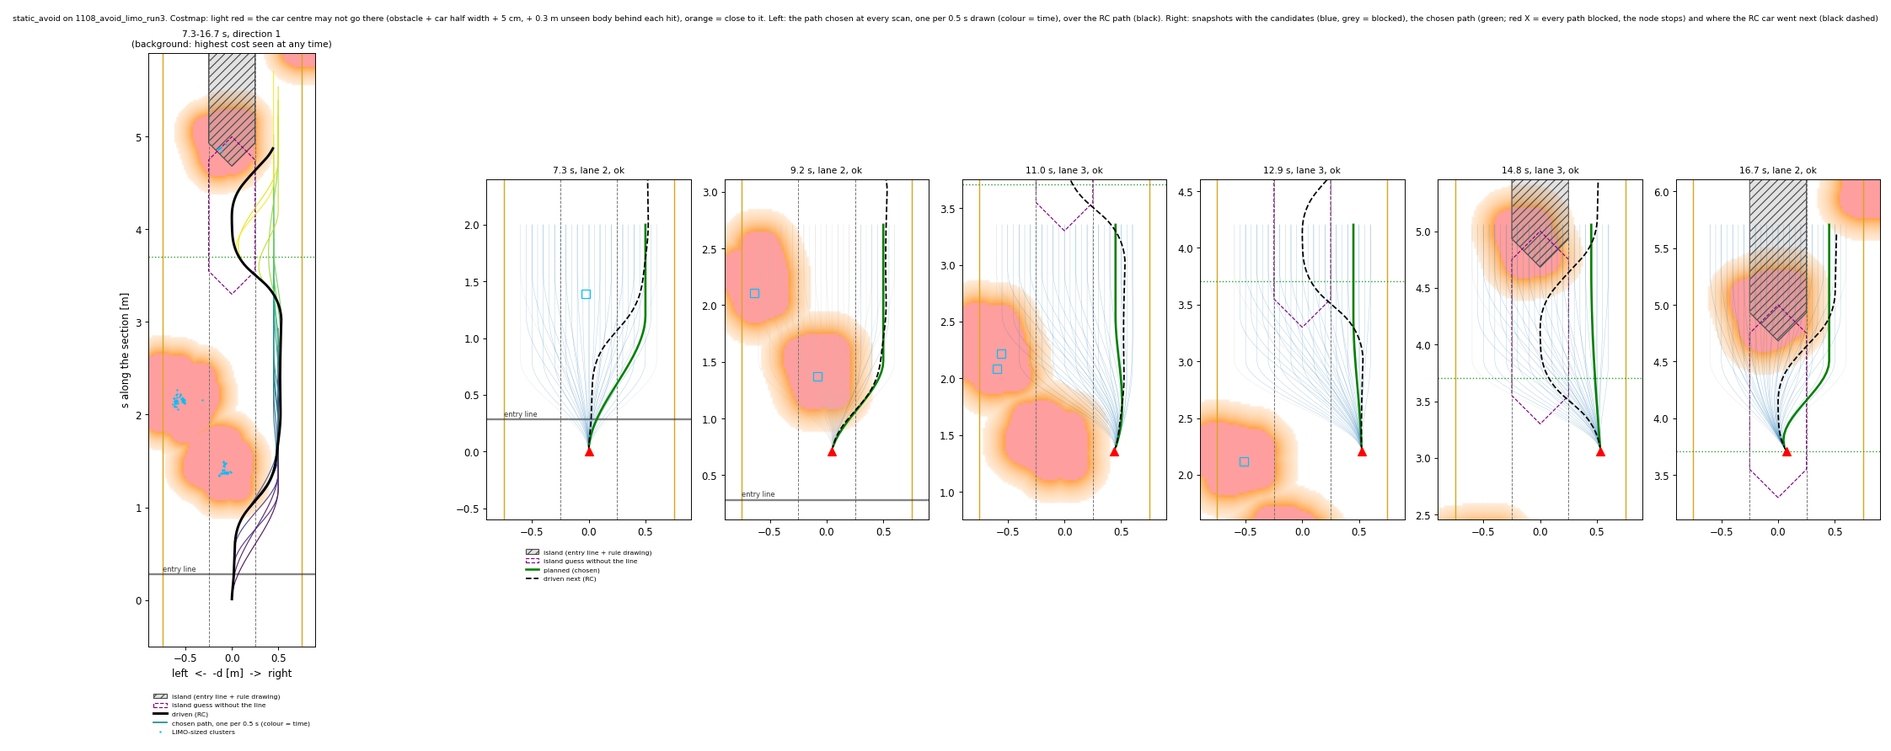
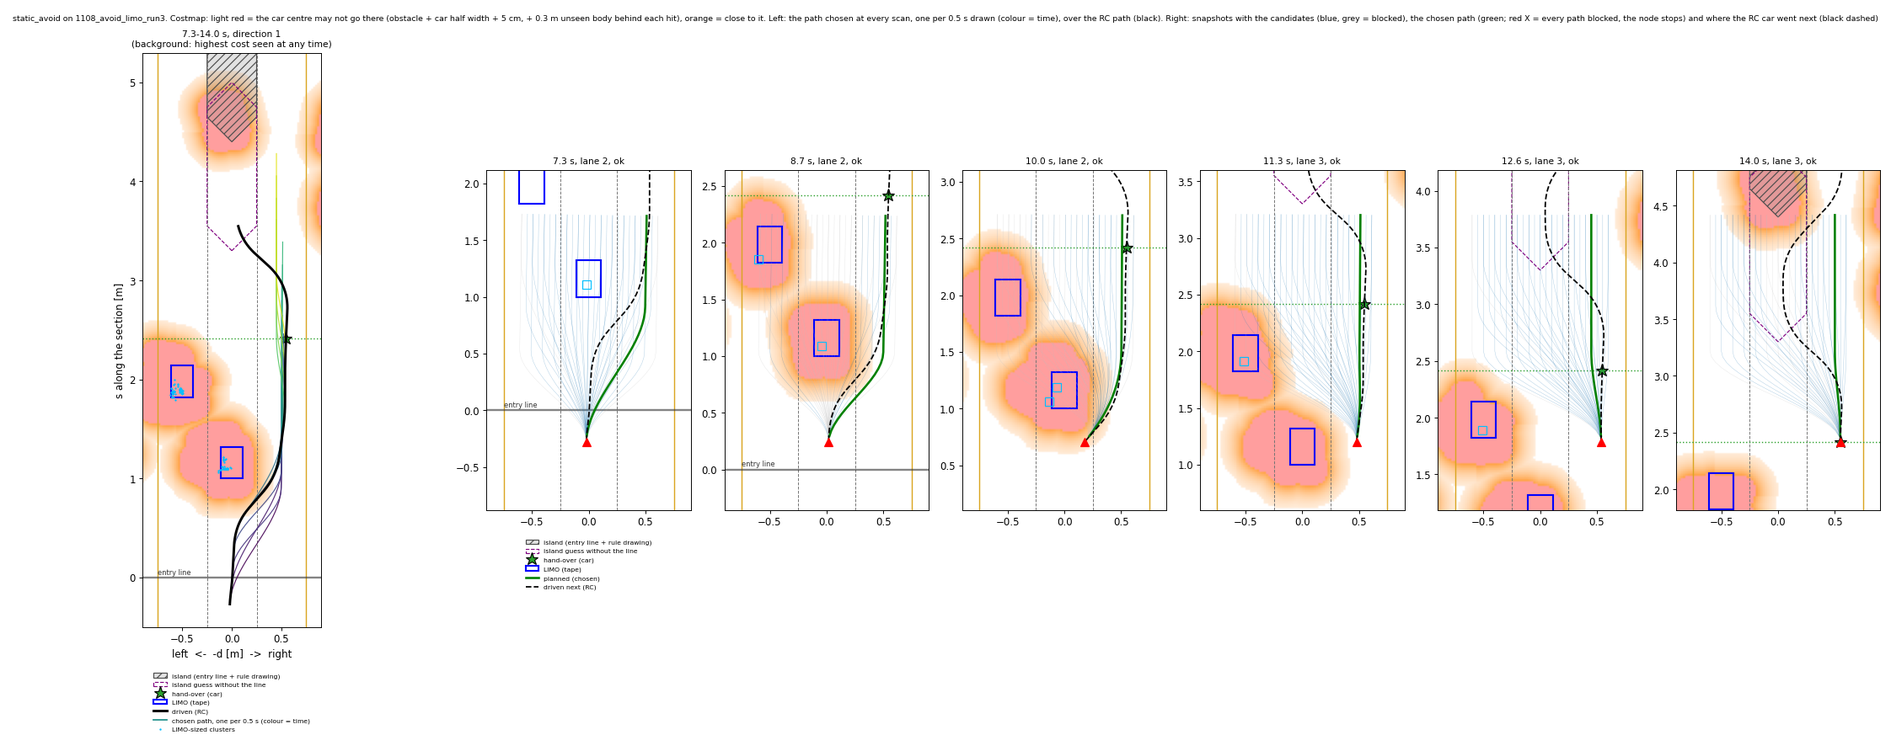
Replay static avoid in lane coordinates, with tape positions; 1108 analysis and v3.2 plan

diff --git a/tools/static_avoid/replay_bag.py b/tools/static_avoid/replay_bag.py
@@ -22,9 +22,9 @@ sys.path.insert(0, os.path.join(HERE, '..', '..', 'ros2_ws', 'src', 'clothoid_li
 from clothoid_lidar.cone_sorter import ConeMission, ConeSorter, SorterParams  # noqa: E402
 from clothoid_lidar.obstacle_extractor import (ExtractorParams, extract_obstacles,  # noqa: E402
                                                transform_points)
-from clothoid_lidar.section_cues import (CameraModel, EntryLineTracker, WhiteParams,  # noqa: E402
-                                         find_entry_line)
-from clothoid_lidar.static_avoid import (ACTIVE, LETHAL, AvoidParams, Inhibit,  # noqa: E402
+from clothoid_lidar.section_cues import (CameraModel, ColourParams, EntryLineTracker,  # noqa: E402
+                                         WhiteParams, find_entry_line)
+from clothoid_lidar.static_avoid import (ACTIVE, LETHAL, AvoidParams, Inhibit, LaneFitter,  # noqa: E402
                                          PoseTracker, StaticAvoid, base_to_section, lane_of,
                                          yaw_from_quaternion)
 
@@ -64,6 +64,7 @@ def replay(bag, t_from, t_to, direction, ignore_cone, lane_width, cam=None):
     p = AvoidParams(lane_width=lane_width)
     avoid = StaticAvoid(p)
     tracker = PoseTracker()
+    fitter = LaneFitter(p, cam, ColourParams())
     cone = ConeMission(ConeSorter(SorterParams()))
     rec = dict(events=[], plans=[], trail=[], limos=[], cost_max=None, p=p, avoid=avoid,
                crossings=[])
@@ -81,9 +82,14 @@ def replay(bag, t_from, t_to, direction, ignore_cone, lane_width, cam=None):
             frames += 1
             if (frames - 1) % 3 or not tracker.ready or not (t_from - 8.0 <= s <= t_to):
                 continue
-            c = entry.update(s, tracker.distance, find_entry_line(image_bgr(msg), cam, white))
+            bgr = image_bgr(msg)
+            c = entry.update(s, tracker.distance, find_entry_line(bgr, cam, white))
             if c is not None:
                 rec['crossings'].append((s, c))
+            had = avoid.lane_frame
+            fitter.on_frame(bgr, avoid, tracker, entry)
+            if avoid.lane_frame is not None and had is None:
+                rec['events'].append((s, avoid.event))
             continue
         if topic == '/odom':
             tracker.odom(s, msg.twist.twist.linear.x)
@@ -94,8 +100,8 @@ def replay(bag, t_from, t_to, direction, ignore_cone, lane_width, cam=None):
                     if avoid.island_source == 'entry line':
                         rec['events'].append((s, 'entry line crossed after the start'))
             if avoid.frame is not None and tracker.ready:
-                sec = avoid.section_pose(tracker.latest())
-                rec['trail'].append((s, sec[0], sec[1], avoid.state == ACTIVE))
+                rec['trail'].append((s, *avoid.section_pose(tracker.latest())[:2],
+                                     avoid.state == ACTIVE))
             continue
         if s < t_from or s > t_to or not tracker.ready:
             continue
@@ -120,17 +126,20 @@ def replay(bag, t_from, t_to, direction, ignore_cone, lane_width, cam=None):
         free = np.column_stack((np.cos(ang[~ok]), np.sin(ang[~ok])))
         avoid.on_scan(hits, np.array([LIDAR_X, 0.0]), pose, tracker.latest(), direction,
                       keep_candidates=True, free_dirs_base=free)
-        sec = avoid.section_pose(tracker.latest())
+        sec = avoid.lane_pose(tracker.latest())
         if len(limos):
             rec['limos'].extend(base_to_section(limos, avoid.section_pose(pose)).tolist())
         cm = avoid.costmap.cost
         rec['cost_max'] = cm.copy() if rec['cost_max'] is None or rec['cost_max'].shape != cm.shape \
             else np.maximum(rec['cost_max'], cm)
         rec['plans'].append(dict(t=s, pose=sec, plan=avoid.plan, cost=cm.copy(),
-                                 dmax=avoid.costmap.d_max, lane=avoid.lane(tracker.latest()),
-                                 limos=base_to_section(limos, sec) if len(limos) else limos))
+                                 lane_rel=avoid.lane_in_costmap(),
+                                 lane=avoid.lane(tracker.latest()),
+                                 limos=base_to_section(limos, avoid.section_pose(pose))
+                                 if len(limos) else limos))
         if avoid.control(tracker.latest(), inh) is None:
             rec['events'].append((s, 'END ' + avoid.event))
+            sec = avoid.lane_pose(tracker.latest())
             rec['handover'] = dict(t=s, s=sec[0], d=sec[1], island=avoid.island,
                                    source=avoid.island_source)
             on_total += s - on_since
@@ -140,7 +149,53 @@ def replay(bag, t_from, t_to, direction, ignore_cone, lane_width, cam=None):
     rec['on_total'] = on_total
     rec['island'], rec['island_source'], rec['entry_s'] = (avoid.island, avoid.island_source,
                                                            avoid.entry_s)
+    to_final_lane(rec, avoid)
     return rec
+
+
+def to_final_lane(rec, avoid):
+    """Everything in the final lane coordinates, costmaps resampled onto them: a plan made before
+    the lane fit is drawn where it really was on the road."""
+    p, final = rec['p'], avoid.lane_in_costmap()
+    rec['lane_turn'] = None if final is None else math.degrees(final.yaw0)
+
+    def sec2lane(q):
+        return q if final is None or not len(q) else final.points_to(q)
+
+    def lane2final(q, rel):
+        return sec2lane(q if rel is None else rel.points_from(q))
+    dmax = 1.5 * p.lane_width + 0.15
+    ns = int(round((p.grid_s_max - p.grid_s_min) / p.resolution))
+    nd = int(round(2 * dmax / p.resolution))
+    ss, dd = np.meshgrid(p.grid_s_min + (np.arange(ns) + 0.5) * p.resolution,
+                         -dmax + (np.arange(nd) + 0.5) * p.resolution, indexing='ij')
+    grid = np.column_stack((ss.ravel(), dd.ravel()))
+    if final is not None:
+        grid = final.points_from(grid)
+    full = avoid.costmap
+
+    def resample(cost):
+        keep, full.cost = full.cost, cost
+        out = full.lookup(grid).reshape(ns, nd)
+        full.cost = keep
+        return out
+    if rec['cost_max'] is not None:
+        rec['cost_max'] = resample(rec['cost_max'])
+    for pl in rec['plans']:
+        rel = pl['lane_rel']
+        pl['dmax'], pl['cost'] = dmax, resample(pl['cost'])
+        s, d, psi = pl['pose']
+        q = lane2final(np.array([[s, d]]), rel)[0]
+        pl['pose'] = (float(q[0]), float(q[1]), psi)
+        pl['plan'].path = lane2final(pl['plan'].path, rel)
+        pl['plan'].candidates = [(lane2final(c, rel), v) for c, v in pl['plan'].candidates]
+        if len(pl['limos']):
+            pl['limos'] = sec2lane(pl['limos'])
+    if rec['limos']:
+        rec['limos'] = sec2lane(np.array(rec['limos'])).tolist()
+    if rec['trail']:
+        tr = sec2lane(np.array([(s, d) for _, s, d, _ in rec['trail']]))
+        rec['trail'] = [(a[0], float(q[0]), float(q[1]), a[3]) for a, q in zip(rec['trail'], tr)]
 
 
 def compare(rec, ahead):
@@ -173,6 +228,8 @@ def main():
                     help='do not stop on the cone-course flag (the 11-05 obstacles were cones)')
     ap.add_argument('--lane-width', type=float, default=0.50)
     ap.add_argument('--plot', default=None)
+    ap.add_argument('--truth', default='', help='tape-measured objects to draw, lane:distance from '
+                    'the entry line to the rear [m], c prefix = cone, e.g. 2:3.00,3:2.50,c1:1.80')
     ap.add_argument('--snaps', type=int, default=6)
     a = ap.parse_args()
 
@@ -198,6 +255,8 @@ def main():
         h = rec['handover']
         print(f'  hand-over at s {h["s"]:.2f} m, {h["island"][0] - h["s"]:.2f} m before the island '
               f'({h["source"]}), lane {lane_of(h["d"], rec["p"])}')
+    print('  lane fit: ' + ('none' if rec['lane_turn'] is None else f'{rec["lane_turn"]:+.1f} deg '
+                            'against the section frame'))
     print(f'  active {rec["on_total"]:.1f} s, {len(rec["plans"])} plans, '
           f'{sum(not x["plan"].feasible for x in rec["plans"])} blocked')
     for ahead in (0.5, 1.0):
@@ -205,6 +264,7 @@ def main():
         if len(e):
             print(f'  planned vs driven, {ahead:.1f} m ahead: median {100 * np.median(e):.0f} cm, '
                   f'p90 {100 * np.percentile(e, 90):.0f} cm (n {len(e)})')
+    rec['truth'] = [x.split(':') for x in a.truth.split(',') if x]
     if a.plot and rec['plans']:
         plot(a.plot, rec, a.bag, direction, a.snaps)
 
@@ -232,7 +292,21 @@ def draw_island(ax, rec, p):
     ax.add_patch(Polygon(hexagon(p.island_s_min, p.island_s_max), closed=True, fill=False,
                          ec='purple', ls='--', lw=1.0, label='island guess without the line'))
     if rec.get('handover'):
-        ax.axhline(rec['handover']['s'], color='tab:green', lw=1.2, ls=':')
+        h = rec['handover']
+        ax.axhline(h['s'], color='tab:green', lw=1.2, ls=':')
+        ax.plot(-h['d'], h['s'], '*', color='tab:green', ms=13, mec='k', label='hand-over (car)')
+    if rec['entry_s'] is not None:
+        from matplotlib.patches import Circle, Rectangle
+        for k, (lane, dist) in enumerate(rec.get('truth', [])):
+            cone = lane.startswith('c')
+            d, s0 = p.lane_width * (2 - int(lane[-1])), rec['entry_s'] + float(dist)
+            if cone:
+                first = k == 0 or not rec['truth'][k - 1][0].startswith('c')
+                ax.add_patch(Circle((-d, s0 + 0.04), 0.04, fill=False, ec='blue', lw=1.8,
+                                    label='cone (tape)' if first else None))
+            else:
+                ax.add_patch(Rectangle((-d - 0.11, s0), 0.22, 0.32, fill=False, ec='blue', lw=1.8,
+                                       label='LIMO (tape)' if k == 0 else None))
 
 
 def cost_rgba(cost):

diff --git a/docs/STATIC_AVOID_V3_2_PLAN.md b/docs/STATIC_AVOID_V3_2_PLAN.md
@@ -1,0 +1,154 @@
+# 회피 v3.2 계획 (2026-11-08, 구현은 다음 날)
+
+작성 2026-11-08, 주영. 현재 코드는 `STATIC_AVOID.md`(v3.1)이고, 이 문서는 다음 단계 계획이다. 아래 "1108 분석"과 "이미 고친 것"은 오늘 작업 결과다(코드는 커밋 `dc1bcee`).
+
+## 1108 bag 분석 (7호차, 실제 LIMO 2대, RC 수동, `/home/a/autorace_bags/1108/1108_avoid_limo_run1~11`)
+
+| run | LIMO (입구 선부터 뒷면, cm) | 표지판 | 사람 경로 |
+|---|---|---|---|
+| 1 | 2차선 100, 3차선 182 | 좌 | 2-1-2-1 |
+| 2 | 2차선 100, 3차선 182 | 우 | 2-1-2-3 |
+| 3 | 2차선 100, 1차선 182 | 우 | 2-3-2-3 |
+| 4 | 1차선 180, 3차선 180 | 우 | 2-3 |
+| 5 | 1차선 300, 3차선 250 | 좌 | 2-1 |
+| 6 | 2차선 300, 3차선 250 | 좌 | 2-1-2-1(섬 밟을 뻔) |
+| 7 | 2차선 300, 3차선 250 | 좌 | 2-1 |
+| 8 | 2차선 300, 3차선 250 | 우 | 2-1-2-3 |
+| 9 | 2차선 300, 3차선 250 | 우 | 1·2차선 막혔다고 가정, 2-3-2-1-2-3 |
+| 10 | 2차선 300, 3차선 250 + 콘 1차선 180, 2차선 100 | 좌 | 2-3-2-1-2-1(섬·표지판 박을 뻔) |
+| 11 | 2차선 300, 1차선 250 + 콘 1차선 180, 2차선 100 | 좌 | 2-3-2-1 |
+
+모든 LIMO는 차로 중앙, 차로 방향. 위치는 입구 정지선에서 LIMO 뒷면까지 수직 거리.
+
+- **측정 정확도:** 입구 선 + odom + 라이다로 계산한 LIMO 위치를 줄자와 대조했다(22/22). 뒷면 오차 중앙값 −6 cm(10~90%: −11 ~ +1 cm), 옆 오차 크기 중앙값 6 cm, 90% 20 cm.
+- **LIMO가 라이다에 보이는 모양:** 실제 LIMO 뒷면은 두 조각(폭 12 cm 7빔 + 6 cm 4빔, 사이에 반사 없는 빔)으로 잡힌다. 그래도 회피 시작은 모두 첫 LIMO 약 1.35 m 앞에서 정상이었다.
+- **입구 선:** 코너 직후라 카메라에 +6~31° 기울어 보인다. 이 기울기는 차의 헤딩이 아니다(헤딩 보정을 넣으면 줄자 대조가 10/22로 나빠지고, 넣지 않으면 22/22). 그 1.7 m 앞 횡단보도 정지선은 0° 근처, 그 밖의 흰 표시는 43~60° 또는 음수였다.
+
+## 오늘 이미 고친 것 (`dc1bcee`)
+1. **경로 금지 판정:** 최대 조향으로도 못 피하는 거리(0.59 m = √(2Ry−y²) + 0.15, R 0.48, y 0.30) 안의 치명 칸만 금지한다. 그 너머는 큰 비용이다.
+2. **후보 경로:** 차의 지금 헤딩에서 출발한다(3차 곡선). 노란 선은 차 모서리 기준으로 보고, 이미 넘어 있으면 최대 조향으로 돌아 나오는 만큼(R(1−cos ψ))을 허용한다. 바깥 차로 중심 너머로 가는 경로에는 비용을 준다(넘침 방지).
+3. **그림:** 모든 후보가 막힌 순간에는 경로 대신 빨간 X를 그린다(전에는 아무 후보나 그려져서 빨간 구역을 가로지르는 선으로 보였음).
+4. **섬 표지판 받침:** 입구 선을 지난 뒤 섬 앞끝 근처(입구 + 4.15 m 이후)의 2차선 물체로는 회피를 시작하지 않는다(run 4에서 켜졌던 것).
+5. **입구 선 선택:**
+   - 이미 보았지만 아직 앞에 있는 선(1 m 이내)을 뒤의 선보다 우선한다(run 1에서 정지선을 골랐던 것).
+   - 기울기가 40°를 넘는 흰 띠는 버린다.
+   - 회피가 시작된 뒤 지난 선은 시작점에서 1.2 m 이내만 인정한다(run 4·9에서 A/B 길의 선을 골랐던 것).
+6. **구간 좌표:** 입구 선을 이미 지났으면 선을 지난 순간의 위치·헤딩으로 잡는다. 선 앞에서 시작했으면, 선에 닿았을 때 섬까지의 거리만 고친다. 시작 뒤에 좌표를 통째로 다시 잡으면 차가 이미 꺾는 중이라 틀어진다(시뮬레이션에서 노란 선 밖으로 나감).
+
+**1105 bag 결과:** 전부 막힘 6 / 0 / 0 / 0, 사람 경로와 1 m 앞 차이 13 / 14 / 10 / 2 cm.
+
+**1108 bag 결과(5·6 반영 후):** 섬 앞 0.16~1.0 m에서 넘김. run 4, 5는 켜지지 않음(2차선이 비어 있음, 맞는 동작). 그림 `docs/static_avoid/1108/run1~11.png`.
+
+**남은 문제(→ 아래 v3.2):**
+- run 6에서 LIMO 두 대가 차로 중앙보다 약 25 cm 오른쪽에 찍혔다. 평행 이동이 아니라 **차로 방향 약 5° 회전** 때문이다(아래 "2026-11-09 추가 분석").
+- run 10, 11은 표지판이 왼쪽인데 3·2차선에서 섬 0.16~0.18 m 앞에 넘겼다.
+
+---
+
+브랜치 `feature/static-avoid`, `/home/a/Clothoid-A-lidar`. 커밋은 확인받은 뒤에만 한다.
+
+## 2026-11-09 추가 분석 (이 절이 아래 내용보다 우선)
+코너를 돌아 나온 직후라 회피 좌표가 차로와 틀어진 채로 시작한다. 입구 선을 지난 뒤 0~0.5 m의 세로선(점선·노란 선) 방향 + IMU로 잰 좌표 회전 k:
+
+| run | 8 | 3 | 1 | 7 | 9 | 2 | 6 | 11 | 10 |
+|---|---|---|---|---|---|---|---|---|---|
+| k (°) | −0.4 | +0.5 | −1.9 | −3.1 | +3.7 | −4.6 | −5.4 | −5.7 | −12.0 |
+
+- k × 거리로 줄자 대비 밀림이 거의 설명된다(run 10 70 cm, run 6 28 cm 등). 입구 선 직후 옆 위치 오차는 ±3 cm 안이다.
+- 입구 선 앞의 세로선은 코너를 봐서 못 쓴다(흔들림 최대 22°). 입구 선 기울기도 쓰지 않는다.
+
+**바뀐 설계**
+1. **H 초기화:** 가로선은 s = 0, 입구 선을 지난 뒤 0~0.5 m의 세로선 프레임(5장 이상, 프레임당 선 2개 이상) 중앙값으로 차로 방향·옆 위치를 한 번에 정한다. 부족하면 1.0 m까지 모으고, 그래도 안 되면 포기한다. 그 전까지는 기존 좌표로 동작한다.
+2. **차로 좌표:** `LaneModel(b, k)` 대신 차로 좌표 프레임(입구 선 위 2차선 중앙이 원점, 차로 방향이 s)을 둔다. costmap은 라이다 기준 고정 좌표에 그대로 두고, 후보 경로·차로·섬·넘기기만 차로 좌표로 계산한다.
+3. **상한:** 방향 15°, 옆 ±10 cm. 초기화 뒤 보정은 방향만 한다(각도 문턱 8°, 이득 0.2, 한 번에 0.5°). 옆 위치 천천히 보정은 1108 재생에서 최대 9 cm 흘러 LIMO 위치를 나쁘게 해서 껐다(`lane_step_dist: 0`).
+4. **선 검색:** 초기화 때는 입구 선 지날 때 헤딩 ±20°, 이후는 차로 방향 예측 ±10°. 차 기준 고정 범위가 아니라서 크게 꺾은 프레임도 쓴다.
+5. **넘기기:** 방향을 모를 때도 섬 앞 넘기기에 차로 중앙·헤딩 정렬 조건을 넣는다.
+
+## Context
+- 1108 bag 11개(7호차, 실제 LIMO 2대, RC) 분석 결과:
+  - 측정은 정확하다. 입구 선 + odom + 라이다로 계산한 LIMO 위치가 줄자와 맞는다(뒷면 −6 cm, 옆 중앙값 6 cm, 90% 20 cm).
+  - 회피 좌표의 **옆 위치·방향 기준**이 약하다. 지금은 "입구 선을 지날 때 차가 2차선 중앙, 차로 방향"이라고 가정하는데, 입구 선이 코너 바로 뒤라 이 가정이 깨진다. run 6에서는 두 LIMO가 차로 중앙보다 25 cm 오른쪽에 찍혔다.
+  - 넘기기 위치가 문제다. run 10, 11은 표지판이 왼쪽인데 3·2차선에서 섬 0.16~0.18 m 앞에 넘겼다.
+- 사용자 결정 (2026-11-08):
+  1. 첫 LIMO로 맞추는 대신, 구간 내내 보이는 **흰 점선·노란 실선**을 카메라로 펴서(BEV, 바닥 투영) IMU 헤딩과 결합해 방향과 옆 위치를 보정한다.
+  2. **방향 선호를 강하게** 하고, **A/B 진입은 회피가 어느 정도 책임진다.** run 10처럼 왼쪽을 일찍 알면 1차선으로 바로 가면 된다.
+
+## 1. 차로 모델 + 카메라 차선 보정
+**구조**
+- costmap은 지금처럼 고정 좌표에 둔다. 장애물은 세상에 고정돼 있으니 그대로 둔다.
+- 그 위에 **차로 모델** `LaneModel(b, k)`을 둔다. 2차선 중앙선이 d = b + k·s라는 뜻이다(작은 각 근사, k = tan(차로 방향 오차)).
+- 차로에 기대는 계산은 모두 이 모델의 차로 좌표 `across = d − (b + k·s)`로 한다.
+  - 차로 중앙 끌림, 바깥 노란 선 한계(모서리 기준, 각도는 θ − atan k), 섬, 목표 차로, 지금 차로 번호, 넘기기 조건, "모든 차로가 비었나" 범위.
+- 시작값은 b = 0, k = 0이다(지금 가정과 같음).
+
+**카메라 측정** (`section_cues.py`, ROS 없음)
+- 3프레임마다 처리한다. 화면 아래쪽(행 55% 이하) 흰색·노란색 화소를 `CameraModel.image_to_floor`로 바닥(base_link)에 투영한다. 간격을 둬서 수백 점만 쓴다.
+- 직선 찾기: 각도 −15~+15°(1° 간격)마다 옆 절편 y0 = y − tan(a)·x의 히스토그램(1 cm)을 만들고, 점이 충분한 봉우리를 선으로 본다(바닥 길이 0.12 m 이상).
+  - 차로를 따라가는 선만 남는다. 가로선, 글자, 섬 끝 사선은 빠진다.
+- 결과는 `LaneLine(y0, angle, colour, n)`이다.
+
+**결합** (`static_avoid.py`)
+- 선을 구간 좌표로 바꾼다.
+  - 방향: ψ_car + angle.
+  - 옆: 지금 차 위치에서의 d.
+- 기대하는 선과 짝을 짓는다. 차로 좌표에서 흰 점선은 ±w/2, 노란 바깥선은 ±1.5w다.
+  - 섬 노란 테두리도 ±w/2라 같은 선으로 맞는다.
+  - 짝짓기 문턱: 0.12 m, 각도 8°.
+- 짝이 지어진 선마다 b·k를 보정 이득 0.2로 끌어당긴다(보완 필터). 한 번에 바뀌는 양은 1 cm / 0.5°로 제한한다.
+- 짝이 안 맞는 측정은 버린다(LIMO 몸체, 잡음).
+- 보정량이 커져도 |b| ≤ w/2, |atan k| ≤ 10°로 묶는다. 넘으면 로그만 남긴다.
+
+**색 기준은 차선 쪽과 같게**
+- 노란색: `lane.yaml`의 `lane_main.hsv_lower` / `hsv_upper`.
+- 흰색: `white_s_max` / `white_v_min`.
+- launch에서 넘기고, `/parameter_events`로 `lane_main`이 바뀌면 따라간다.
+- 지금 main의 `lane.yaml` 노란 값은 2025년 값(S ≥ 215, 우리 테이프에 안 맞음)이다. 이 값이 오면 경고하고 11-05 실측값([18,60,90]~[35,255,255], `namgyu/lane`과 같음)을 쓴다.
+
+## 2. 방향 선호 강화와 A/B 진입 책임
+**방향을 알 때(`/direction_flag` 0 / 1)**
+- 목표 차로(A = 1차선, B = 3차선) 비용을 강하게 둔다. w_target 20 → 150.
+- 섬이 2 m 안이면 400으로 올린다. 일찍 알면 run 10처럼 바로 그 차로로 간다.
+- **넘기기 조건이 바뀐다:** 목표 차로 중앙 ±0.10 m, 헤딩 ±10°이고 앞이 비었을 때만 넘긴다. 섬 앞끝에 도달하기 전이면 장애물이 끝난 즉시 넘긴다.
+  - 섬 1 m 앞인데 아직 목표 차로가 아니면 넘기지 않는다. 회피가 계속 몰아 목표 차로로 들어간 뒤 넘긴다.
+- **섬은 금지 구역으로 둔다.** 입구 선 기준 위치(정확도 약 6 cm)일 때만이고, 추정 위치일 때는 지금처럼 비용이다.
+
+**방향을 모를 때:** 지금처럼 섬 1 m 앞에서 넘긴다. 이후 A/B는 `lane_main`과 YOLO가 맡는다.
+
+- 넘긴 뒤 A/B 길에서는 회피가 다시 켜지지 않는다(지금의 섬 위치 판정 그대로).
+
+## 파일
+- **`clothoid_lidar/section_cues.py`:** `find_lane_lines()`, `LaneLine`, `ColourParams`(노랑·흰).
+- **`clothoid_lidar/static_avoid.py`:**
+  - `LaneModel`과 `update_from_lines()`
+  - `plan_paths`와 넘기기·차로 계산을 차로 좌표로
+  - 방향 비용 강화, 방향을 알 때의 넘기기 조건, 섬 금지(입구 선 기준일 때)
+- **`static_avoid_node.py`:** 영상 콜백에서 선 찾기 → 결합. `/parameter_events`로 노랑·흰 따라가기. `/avoid/cues`에 쓰고 있는 차로 모델(2차선 중앙선)과 짝지은 선을 그린다.
+- **`launch/avoid.launch.py`:** `lane.yaml`의 노란 HSV 전달(2025값 경고).
+- **`tools/static_avoid/replay_bag.py`:** 같은 결합을 쓰고, 그림에 보정된 차로선을 그린다.
+- **`test/test_section_cues.py`:** 합성 점선과 노란 선, 기울어진 차, 옆으로 비킨 차, 가로선·글자 무시.
+- **`test/test_static_avoid.py`:**
+  - 시뮬레이션에 "차가 입구 선을 차로 중앙에서 0.2 m 벗어나, 6° 틀어져 지남"을 넣고, 카메라 선 측정(모델에서 생성, 잡음 포함)으로 보정되는지 본다.
+  - 방향을 알 때 목표 차로에서 넘기는지 본다.
+  - run 10 같은 배치(1·2차선 콘, 2·3차선 LIMO, 왼쪽)를 넣는다.
+- **`docs/STATIC_AVOID.md`:** 1108 분석, v3.2 규칙.
+
+## 검증
+1. 단위 테스트와 시뮬레이션 전체.
+2. **1108 bag 11개 재생:**
+   - 보정 뒤 LIMO 위치가 차로 모델 기준 차로 중앙에서 얼마나 떨어지는지 본다. run 6의 25 cm가 줄어야 한다.
+   - 목표 차로에서 넘기는지, 넘긴 위치를 본다(run 10, 11 포함).
+   - 사람 경로와의 차이를 본다.
+3. 1105 bag 4개 회귀: 결과가 나빠지지 않는지 본다.
+4. 실제 노드로 bag 재생: `/avoid/cues`의 차로선이 rviz에서 점선과 겹치는지 눈으로 본다.
+
+## 위험
+- 차선이 LIMO에 가리거나, 차가 차로를 바꾸며 크게 꺾일 때는 측정이 적다. 그때는 IMU로만 간다. 보정은 측정이 있을 때만 천천히 한다.
+- 카메라 값(limo2)의 바닥 투영 오차는 1 m 앞에서 수 cm다. 선 각도 오차는 짧은 점선에서 커질 수 있다. 길이와 점 수로 거른다.
+- 섬 금지(입구 선 기준)는 입구 선을 잘못 잡으면 위험하다. 앞서 넣은 선 선택 규칙(앞에서 본 선 우선, 40° 제한, 시작 뒤 1.2 m 이내)에 기댄다.
+
+## 해야 할 일 (2026-11-09 기준)
+- **재도전할 때 차를 어디에 둘지 정하기.** 넘긴 뒤 재시작은 잠긴다. 새 흰 선을 지난 뒤 3 m 안에서 내 차로에 LIMO 크기 물체가 막고 있어야 풀린다. 입구 선보다 앞(횡단보도 정지선 쪽)에 두면 동작한다. 입구 선 바로 위나 그 뒤에 두면 선을 못 보므로 노드를 다시 띄워야 한다.
+- **1105 bag의 카메라 맞춤 오류(이번 범위에서 제외, 목표는 1108).** 맞춤 각도 +6.0 / −9.5 / −9.0 / −10.0°가 콘 위치 기준 −1 / 0 / +2 / −1°와 맞지 않는다. 1108은 줄자와 맞는다. 원인 미확인. 대회장에서 같은 현상이 나오면 좌표가 틀어지므로, 첫 주행 때 로그의 `lane fit` 각도와 rviz `/avoid/cues` 차로선을 확인한다.
+- 실제 노드로 bag을 재생해 rviz에서 확인.
+- `docs/STATIC_AVOID.md`에 v3.2 반영.
+- 3차선 LIMO가 입구 선에서 뒷면 약 3.2 m 이상이면 시뮬레이션에서 차가 섬을 살짝 밟는다(1108 최대 3.0 m).
